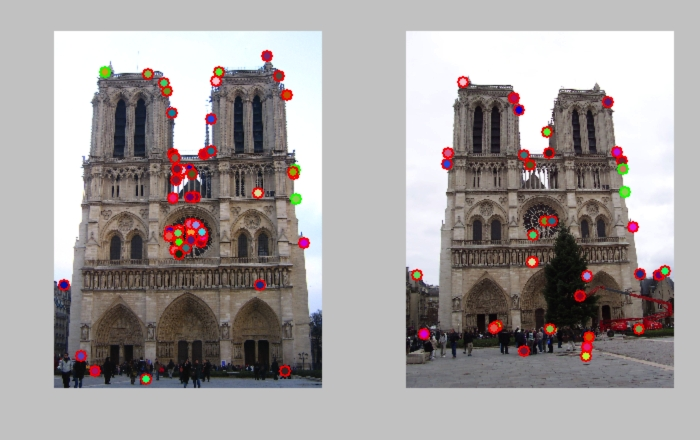
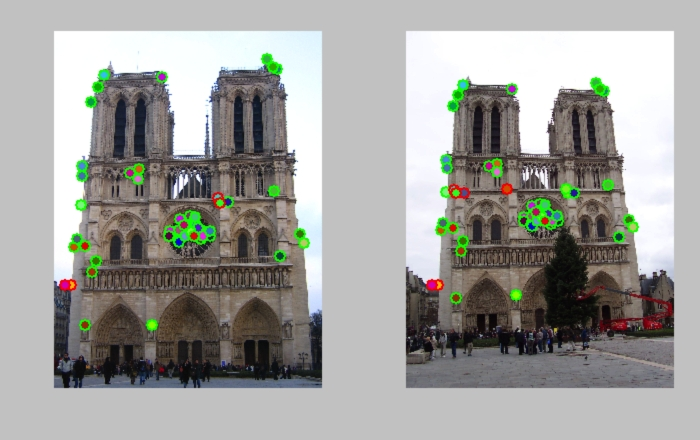
Finished project2 basic req

diff --git a/project2/html/index.html b/project2/html/index.html
@@ -130,70 +130,55 @@ td img {
 <body>
 <div id="header" >
 <div id="headersub">
-<h1>Your Name <span style="color: #DE3737">(your cs id)</span></h1>
+<h1>Cheng Xie <span style="color: #DE3737">(cxie)</span></h1>
 </div>
 </div>
 <div class="container">
 
 <h2>CS 143 / Project 2 / Local Feature Matching</h2>
 
-<div style="float: right; padding: 20px">
+<div style="float: right; padding: 10px">
 <img src="placeholder.jpg" />
-<p style="font-size: 14px">Example of a right floating element.</p>
 </div>
 
-<p> 	Lorem ipsum dolor sit amet, consectetur adipisicing elit, sed do eiusmod tempor incididunt ut labore et dolore magna aliqua. Ut enim ad minim veniam, quis nostrud exercitation ullamco laboris nisi ut aliquip ex ea commodo consequat. Duis aute irure dolor in reprehenderit in voluptate velit esse cillum dolore eu fugiat nulla pariatur. Excepteur sint occaecat cupidatat non proident, sunt in culpa qui officia deserunt mollit anim id est laborum.</p>
-
-<ol>
-<li>list element 1.</li>
-<li>list element 2.</li>
-<li>etc.</li>
-</ol>
-
-<p> 	Lorem ipsum dolor sit amet, consectetur adipisicing elit, sed do eiusmod tempor incididunt ut labore et dolore magna aliqua. Ut enim ad minim veniam, quis nostrud exercitation ullamco laboris nisi ut aliquip ex ea commodo consequat. Duis aute irure dolor in reprehenderit in voluptate velit esse cillum dolore eu fugiat nulla pariatur. Excepteur sint occaecat cupidatat non proident, sunt in culpa qui officia deserunt mollit anim id est laborum.</p>
-
+<p>In this project, I implemented harris corner detector, SIFT feature descriptor and normalized patch descriptor, and feature matching algorithm by using nearest neighbour distance ratio test. Local feature matching is done by first extracting interest points with harris corner detector, then calculate a SIFT descriptor for every interest points, and finally matching these interest points using their descriptors. </p>
+<p>
 <div style="clear:both">
-<h3>Example heading</h3>
+</p>
+<h3>Getting interest points</h3>
 
-<p> 	Lorem ipsum dolor sit amet, consectetur adipisicing elit, sed do eiusmod tempor incididunt ut labore et dolore magna aliqua. Ut enim ad minim veniam, quis nostrud exercitation ullamco laboris nisi ut aliquip ex ea commodo consequat. Duis aute irure dolor in reprehenderit in voluptate velit esse cillum dolore eu fugiat nulla pariatur. Excepteur sint occaecat cupidatat non proident, sunt in culpa qui officia deserunt mollit anim id est laborum.</p>
-
-<h2>Example of code with highlighting</h2>
-The javascript in the <code>highlighting</code> folder is configured to do syntax highlighting in code blocks such as the one below.<p>
-
-<pre><code>
-%example code
-for i = 1:length(offset)
-    source = imread(sprintf('%s/source_%02d.jpg',data_dir,i));
-    mask   = imread(sprintf('%s/mask_%02d.jpg',data_dir,i));
-    target = imread(sprintf('%s/target_%02d.jpg',data_dir,i));
-
-</code></pre>
-
-<h3>Results in a table</h3>
-
-<table border=1>
-<tr>
-<td>
-<img src="placeholder.jpg" width="24%"/>
-<img src="placeholder.jpg"  width="24%"/>
-<img src="placeholder.jpg" width="24%"/>
-<img src="placeholder.jpg" width="24%"/>
-</td>
-</tr>
-
-<tr>
-<td>
-<img src="placeholder.jpg" width="24%"/>
-<img src="placeholder.jpg"  width="24%"/>
-<img src="placeholder.jpg" width="24%"/>
-<img src="placeholder.jpg" width="24%"/>
-</td>
-</tr>
-
-</table>
-
-<div style="clear:both" >
-<p> 	Lorem ipsum dolor sit amet, consectetur adipisicing elit, sed do eiusmod tempor incididunt ut labore et dolore magna aliqua. Ut enim ad minim veniam, quis nostrud exercitation ullamco laboris nisi ut aliquip ex ea commodo consequat. Duis aute irure dolor in reprehenderit in voluptate velit esse cillum dolore eu fugiat nulla pariatur. Excepteur sint occaecat cupidatat non proident, sunt in culpa qui officia deserunt mollit anim id est laborum.</p>
-</div>
+<p>I implemented harris corner detector by taking the following steps:</p>
+<ol>
+  <li>Blur the image using gaussian filter with sigma1 = 0.5.</li>
+  <li>Get partial derivatives of the image Ix, Iy along x, y using sobel filter.</li>
+  <li>Calculate Ix*Ix, Ix*Iy, Iy*Iy and apply gaussian filter on them with sigma2 = 3.</li>
+  <li>Generate the harris corner response image by using the formula in the slides with alpha = 0.04.</li>
+  <li>Remove the interest points near the edge, so that there will be enough pixels for descriptors.</li>
+  <li>Threshold the response image with threshold = 0.02.</li>
+  <li>Perform non-maximum suppression using a 3x3 window.</li>
+  <li>Return the maximum points as interest points.</li>
+</ol>
+<p>The above parameters: sigma1, sigma2, alpha, threshold, and sliding windows size can have huge influence on the final result. After some experiments, I found the above values can produce reasonably well results as shown below.</p>
+<p><img src="images/points.png" width="500" height="668" alt=""/></p>
+<h3>Generating feature descriptors</h3>
+<p>I implemented two methods for generating feature descriptors, one is normalized patches and another is SIFT descriptor. For normalized patches, I just take the pixels in a square region around the interest points, normalize them, and use them as descriptors. For SIFT descriptors, I took the following steps:</p>
+<ol>
+  <li>Get partial derivatives of the image Ix, Iy along x, y using sobel filter.</li>
+  <li>Compute the magnitute image using Ix and Iy.</li>
+  <li>Compute the gradient image using Ix, Iy and atan2, and map the gradients into angles.</li>
+  <li>For each interest point, take the pixels around it according to feature width and compute SIFT descriptor for it by using the data from the magnitute image and gradient image.</li>
+  <li>Normalize the SIFT descriptor.</li>
+</ol>
+<p>According the results shown below, SIFT descriptor performs much better than normalized patches. For the baseline images, SIFT descriptor can achieve 51 total good matches and 6 total bad matches, while normalized patches can only get 15 total good matches, 6 total bad matches.</p>
+<p>Feature width can also have impact on the results. According to experiments, feature width 16 can get 44 total good matches, 8 total bad matches, while feature width 32 can get 51 total good matches, 6 total bad matches.</p>
+<p><img src="images/normalized_res.jpg" alt="" width="434" height="307"/><img src="placeholder.jpg" width="400" height="251" alt=""/></p>
+<p>Left: Normalized patches.  Right: SIFT</p>
+<h3>Matching features</h3>
+<p>I implemented nearest neighbour ratio test for matching features. First I calculate distances for each feature descriptor in image1 to all the feature descriptors in image2, then for each feature descriptor in image1, if the ratio between two least distances with feature descriptors of image2 is less than 0.76, a correspondence is found.</p>
+<p>The value of ratio can have huge impact on the result. If the value is increased, more wrong correspondence will be found. If the value is descreased, less correct correspondence will be found.</p>
+<h3>Other results</h3>
+<p>According to results, if the scale or orientation of the two images differs greatly, the results wouldn't be ideal.</p>
+<p><img src="images/mountain.jpg" width="1440" height="800" alt=""/><img src="images/house.jpg" width="1440" height="800" alt=""/></p>
+<p>&nbsp;</p>
 </body>
 </html>

diff --git a/project2/code/proj2.m b/project2/code/proj2.m
@@ -11,7 +11,6 @@
 % (6) Evaluates the matches based on ground truth correspondences
 
 close all
-clear all
 
 % There are numerous other image sets in /course/cs143/asgn/proj2/data/
 % You can simply download images off the Internet, as well. However, the
@@ -24,6 +23,18 @@ clear all
 % need local features at multiple scales to handle harder cases.
 image1 = imread('../data/Notre Dame/921919841_a30df938f2_o.jpg');
 image2 = imread('../data/Notre Dame/4191453057_c86028ce1f_o.jpg');
+% 
+% image1 = imread('../data/Mount Rushmore/7433805428_d356ca07a0_o.jpg');
+% image2 = imread('../data/Mount Rushmore/9021235130_7c2acd9554_o.jpg');
+
+% image1 = imread('../data/Episcopal Gaudi/58936044_55d73729b1_o.jpg');
+% image2 = imread('../data/Episcopal Gaudi/390248678_7ab374203d_o.jpg');
+% 
+% image1 = imread('../data/House/IMG_0485.JPG');
+% image2 = imread('../data/House/IMG_0488.JPG');
+
+% image1 = imread('../data/Pantheon Paris/2093280693_da19bb8780_o.jpg');
+% image2 = imread('../data/Pantheon Paris/3665870978_550083ae6a_o.jpg');
 
 % You don't have to work with grayscale images. Matching with color
 % information might be helpful.
@@ -34,17 +45,19 @@ scale_factor = 0.5; %make images smaller to speed up the algorithm
 image1 = imresize(image1, scale_factor, 'bilinear');
 image2 = imresize(image2, scale_factor, 'bilinear');
 
-feature_width = 16; %width and height of each local feature, in pixels. 
+feature_width = 32; %width and height of each local feature, in pixels. 
 
 %% Find distinctive points in each image. Szeliski 4.1.1
 % !!! You will need to implement get_interest_points. !!!
+figure(1);
 [x1, y1] = get_interest_points(image1, feature_width);
+figure(2);
 [x2, y2] = get_interest_points(image2, feature_width);
 
 %% Create feature vectors at each interest point. Szeliski 4.1.2
 % !!! You will need to implement get_features. !!!
-[image1_features] = get_features(image1, x1, y1, feature_width);
-[image2_features] = get_features(image2, x2, y2, feature_width);
+[image1_features] = get_features(image1, y1, x1, feature_width);
+[image2_features] = get_features(image2, y2, x2, feature_width);
 
 
 %% Match features. Szeliski 4.1.3

diff --git a/project2/code/get_interest_points.m b/project2/code/get_interest_points.m
@@ -18,30 +18,14 @@
 %   do not need to make scale and orientation invariant local features.
 function [x, y, confidence, scale, orientation] = get_interest_points(image, feature_width)
 
-% Implement the Harris corner detector (See Szeliski 4.1.1) to start with.
-% You can create additional interest point detector functions (e.g. MSER)
-% for extra credit.
-
-% If you're finding spurious interest point detections near the boundaries,
-% it is safe to simply suppress the gradients / corners near the edges of
-% the image.
-
-% The lecture slides and textbook are a bit vague on how to do the
-% non-maximum suppression once you've thresholded the cornerness score.
-% You are free to experiment. Here are some helpful functions:
-%  BWLABEL and the newer BWCONNCOMP will find connected components in 
-% thresholded binary image. You could, for instance, take the maximum value
-% within each component.
-%  COLFILT can be used to run a max() operator on each sliding window. You
-% could use this to ensure that every interest point is at a local maximum
-% of cornerness.
-
 sigma = 3;
-alpha = 0.06;
-threshold = 0.1;
+alpha = 0.04;
+threshold = 0.02;
 
 g = fspecial('gaussian', 4*sigma+1, sigma);
 sobel = fspecial('sobel');
+
+image = imfilter(image, fspecial('gaussian'));
 
 ix = imfilter(image, sobel');
 iy = imfilter(image, sobel);
@@ -60,16 +44,15 @@ corner(:, end-feature_width:end) = 0;
 maxvalue = max(max(corner));
 corner = corner .* (corner > threshold * maxvalue);
 
-result = colfilt(corner, [5 5], 'sliding', inline('max(x)'));
+result = colfilt(corner, [3 3], 'sliding', inline('max(x)'));
 corner = corner .* (corner == result);
-
-imshow(corner);
 
 [y, x] = find(corner);
 
-% hold on;
-% plot(x , y, 'r.');
-% hold off;
+imshow(image);
+hold on;
+plot(x , y, 'r.');
+hold off;
 
 end
 

diff --git a/project2/code/get_features.m b/project2/code/get_features.m
@@ -52,7 +52,7 @@ function [features] = get_features(image, x, y, feature_width)
 % Another simple trick which can help is to raise each element of the final
 % feature vector to some power that is less than one.
 
-features = zeros(size(x,1), 4, 4, 8);
+features = zeros(size(x, 1), 4, 4, 8);
 % features = zeros(size(x,1), feature_width * feature_width);
 
 sobel = fspecial('sobel');
@@ -61,8 +61,8 @@ dx = imfilter(image, sobel');
 dy = imfilter(image, sobel);
 
 magnitude = sqrt( dx .* dx + dy .* dy );
-angel = atan2(dy, dx) + pi;
-angel = mod( floor(angel / (2*pi) * 8), 8 ) + 1;
+angle = atan2(dy, dx) + pi;
+angle = mod( floor(angle / (2*pi) * 8), 8 ) + 1;
 
 half_width = feature_width / 2;
 
@@ -74,15 +74,15 @@ for i = 1:size(x, 1)
     y1 = py - half_width + 1;
     y2 = py + half_width;
     
-%     pixels = image(y1:y2, x1:x2);
+%     pixels = image(x1:x2, y1:y2);
 %     features(i, :) = pixels(:);
     
-    for row = y1:y2
-        for col = x1:x2
-            cell_row = floor((row-y1)/4)+1;
-            cell_col = floor((col-x1)/4)+1;
-            features(i, cell_row, cell_col, angel(row, col)) = ...
-                features(i, cell_row, cell_col, angel(row, col)) + ...
+    for row = x1:x2
+        for col = y1:y2
+            cell_row = floor((row-x1)/(feature_width/4))+1;
+            cell_col = floor((col-y1)/(feature_width/4))+1;
+            features(i, cell_row, cell_col, angle(row, col)) = ...
+                features(i, cell_row, cell_col, angle(row, col)) + ...
                 magnitude(row, col);
         end
     end

diff --git a/project2/code/match_features.m b/project2/code/match_features.m
@@ -23,40 +23,20 @@ function [matches, confidences] = match_features(features1, features2)
 % forms of spatial verification of matches.
 
 % Placeholder that you can delete. Random matches and confidences
-num_features1 = size(features1, 1);
-num_features2 = size(features2, 1);
 
-max_size = min(num_features1, num_features2);
+[idx, d] = knnsearch(features1, features2, 'K', 2);
 
-if num_features1 > num_features2
-    tmp = features1;
-    features1 = features2;
-    features2 = tmp;
-end
+matches = [];
+confidences = [];
 
-matches = zeros(max_size, 2);
-confidences = zeros(max_size, 1);
-
-match_index = 1;
-
-for i = 1:num_features1
-    distances = zeros(num_features2, 1);
-    for j = 1:num_features2
-        distances(j) = norm(features1(i) - features2(j));
-    end
-    [sorted_distances, idx] = sort(distances);
-    if sorted_distances(2) > 0
-        ratio = sorted_distances(1) / sorted_distances(2);
-        if ratio < 0.8
-            matches(match_index, :) = [i, idx(1)];
-            confidences(match_index) = 1 - ratio;
-            match_index = match_index + 1;
-        end
+for i = 1:size(idx, 1)
+    indexes = idx(i, :);
+    distances = d(i, :);
+    if distances(1) / distances(2) < 0.76
+        matches = [matches; indexes(1) i];
+        confidences = [confidences; 1 - distances(1)];
     end
 end
-
-matches(match_index:end, :) = [];
-confidences(match_index:end, :) = [];
 
 % Sort the matches so that the most confident onces are at the top of the
 % list. You should probably not delete this, so that the evaluation
